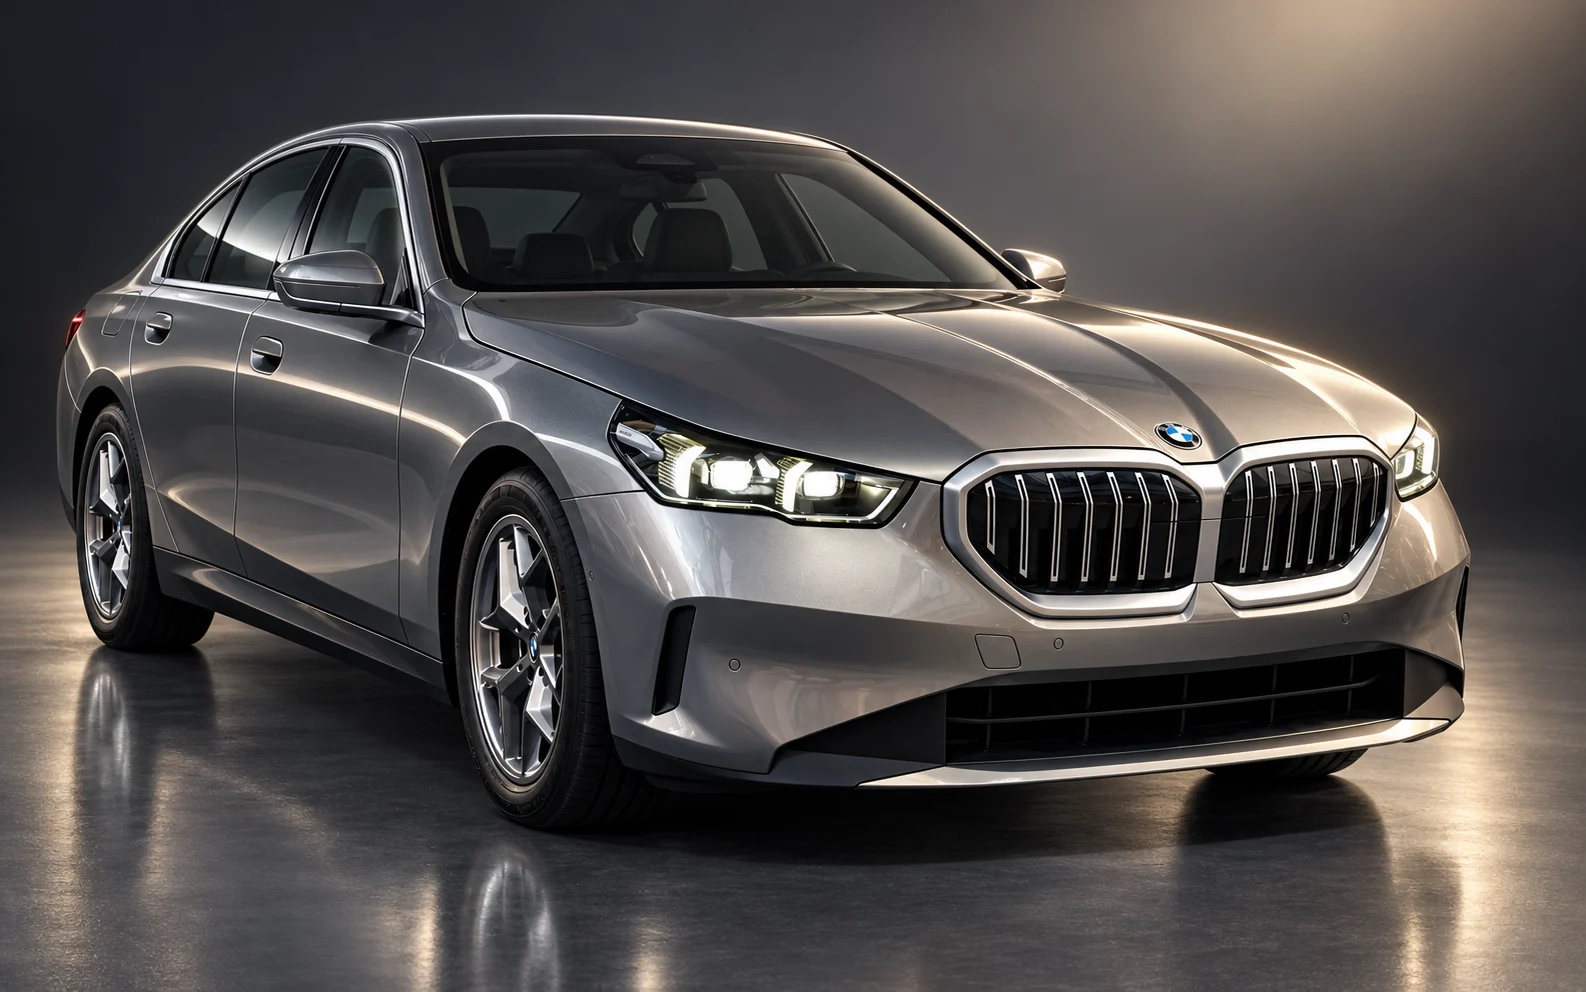
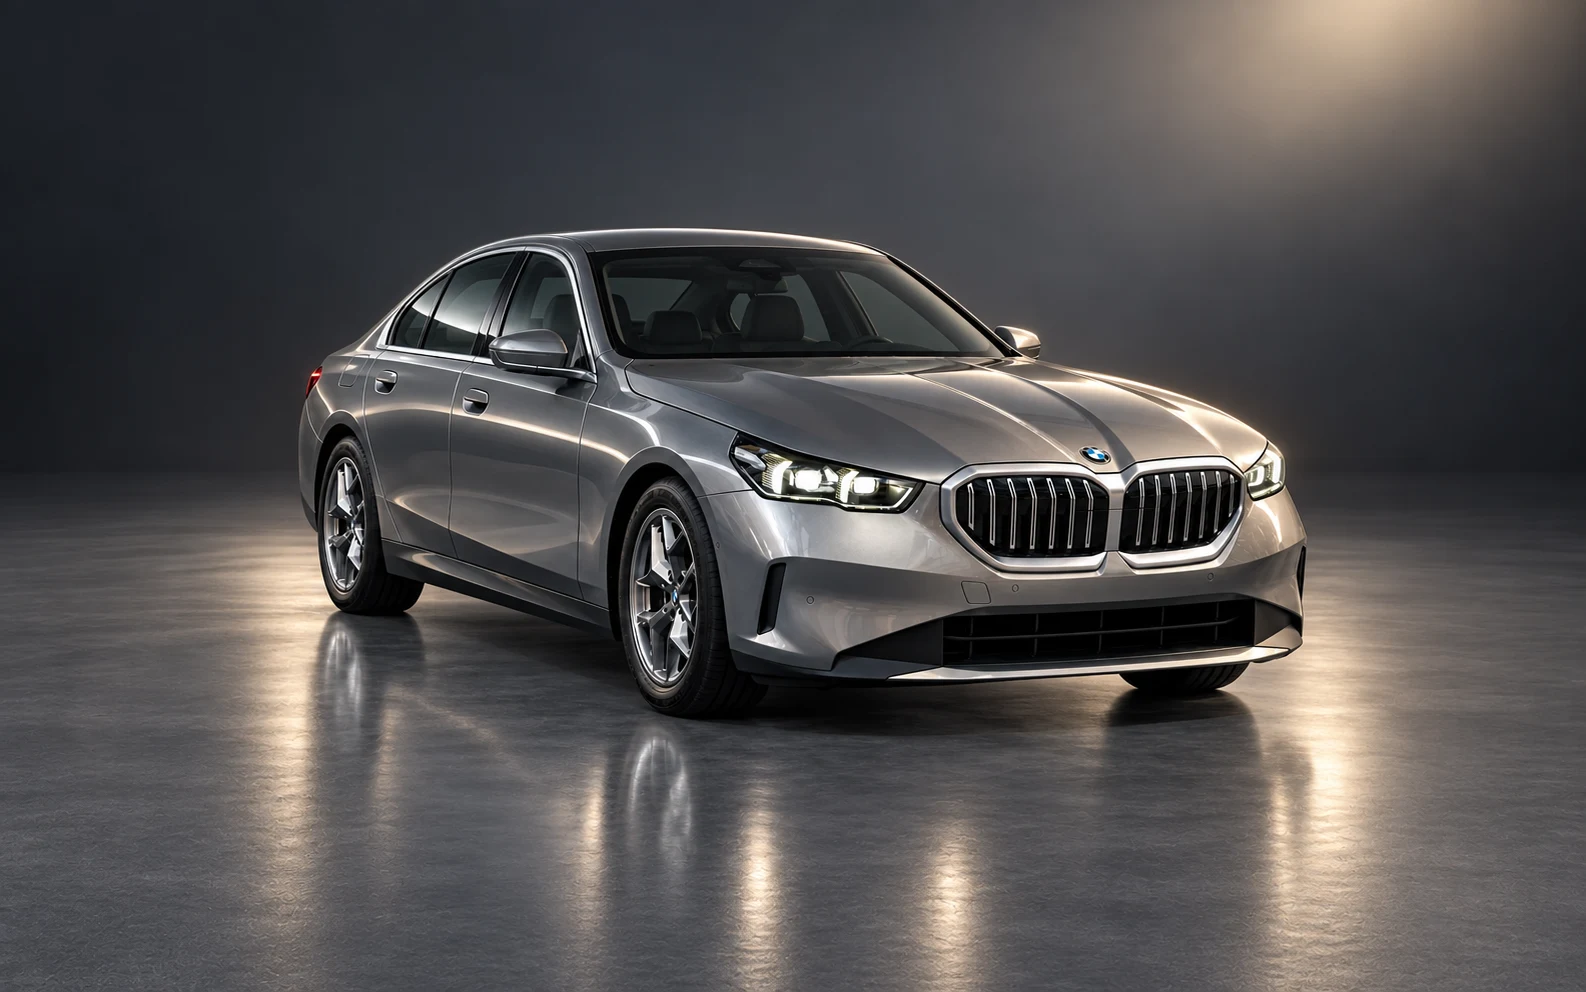
fix: preserve full vehicle framing

diff --git a/src/styles.css b/src/styles.css
@@ -2066,13 +2066,21 @@ td > span {
   object-position: center;
 }
 .detail-visual {
+  height: auto;
   padding: 0 !important;
   min-height: 320px;
   background: var(--raised) !important;
   overflow: hidden;
 }
 .detail-visual .vehicle-photo {
-  height: 360px;
+  height: auto;
+}
+.detail-visual .vehicle-photo img {
+  box-sizing: border-box;
+  aspect-ratio: 16 / 10;
+  flex: none;
+  height: auto;
+  object-position: center;
 }
 .photo-missing {
   min-height: 220px;
@@ -2136,9 +2144,6 @@ td > span {
 @media (max-width: 760px) {
   .family-grid {
     grid-template-columns: 1fr;
-  }
-  .detail-visual .vehicle-photo {
-    height: 290px;
   }
   .coverage-paths ul {
     grid-template-columns: 1fr;
